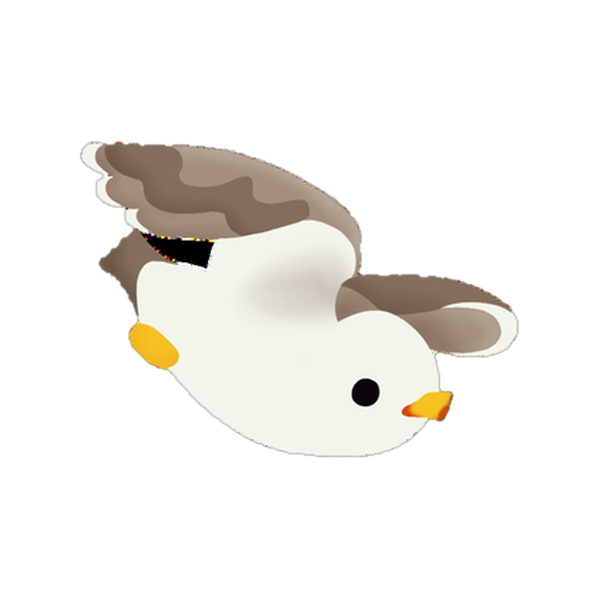
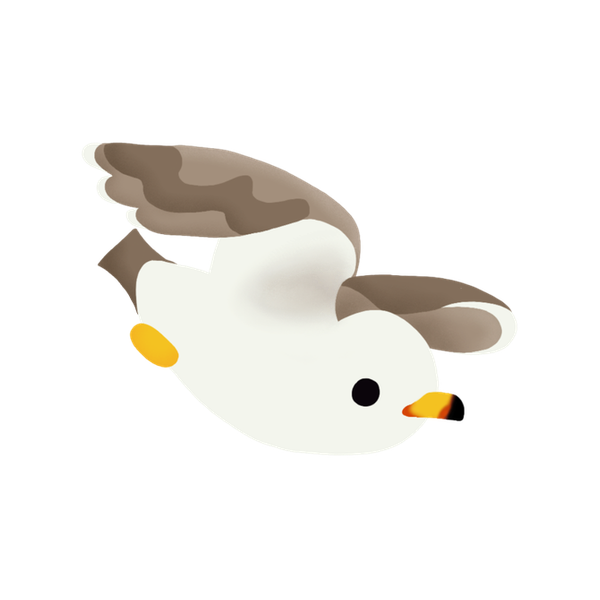
Redraw the California Gull
The gull's art is redrawn. Avatar art is cached hard by path, so the
art version bumps with it (ws15 to ws16): without that, everybody who
has ever loaded the old drawing keeps seeing it.

diff --git a/multiplayer/client/js/preview-app.js b/multiplayer/client/js/preview-app.js
@@ -773,7 +773,7 @@
   // refreshed avatar image (same /avatars/x.png path) is never served stale.
   // Only touches /avatars/ paths, external (Google) avatar URLs are left as-is.
   // Stored/compared paths stay clean; the server ignores the query (basename match).
-  const _AVATAR_ART_VERSION = "ws15";
+  const _AVATAR_ART_VERSION = "ws16";
   function _avSrc(url) {
     const u = String(url || "");
     // Cache-bust both avatar AND background art so a version bump always refreshes
